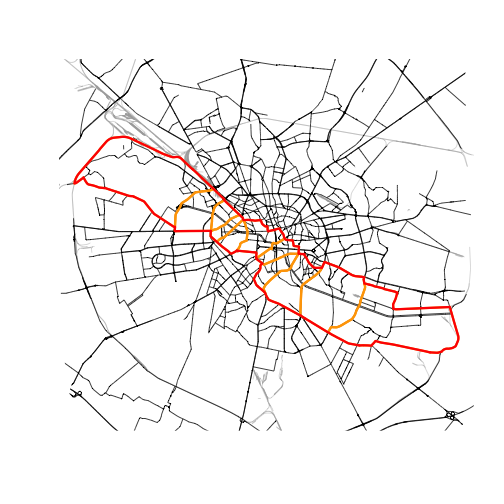
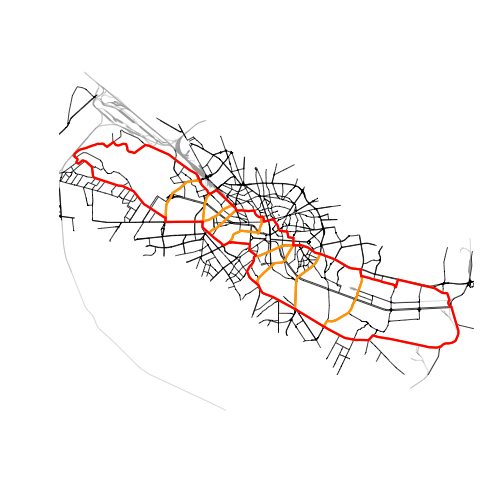
Update getting started vignette

diff --git a/NEWS.md b/NEWS.md
@@ -37,6 +37,7 @@ and this project adheres to [Semantic Versioning](https://semver.org/spec/v2.0.0
 
 ## Changed
 
+- The getting started vignette was updated to use `delineate_city_river()` instead of the old `delineate(city_name, river_name, ...)` call.
 - The corridor delineation vignette was updated to use `delineate_city_river()` instead of the old `delineate(city_name, river_name, ...)` call, and to reflect the current `corridor_init` parameter (replacing the old `method` argument). The description of the return value was updated to mention the `delineation` S3 class and its full set of layers.
 - The corridor segmentation vignette was updated to accurately describe the default behaviour of `delineate()`, to reference `delineate_city_river()`, and to remove an unused `get_dem_example_data()` call from the setup chunk.
 - All user-facing `stop()`, `warning()`, and `message()` calls have been migrated to `cli` equivalents (`cli_abort()`, `cli_warn()`, `cli_inform()`) for consistent output.
